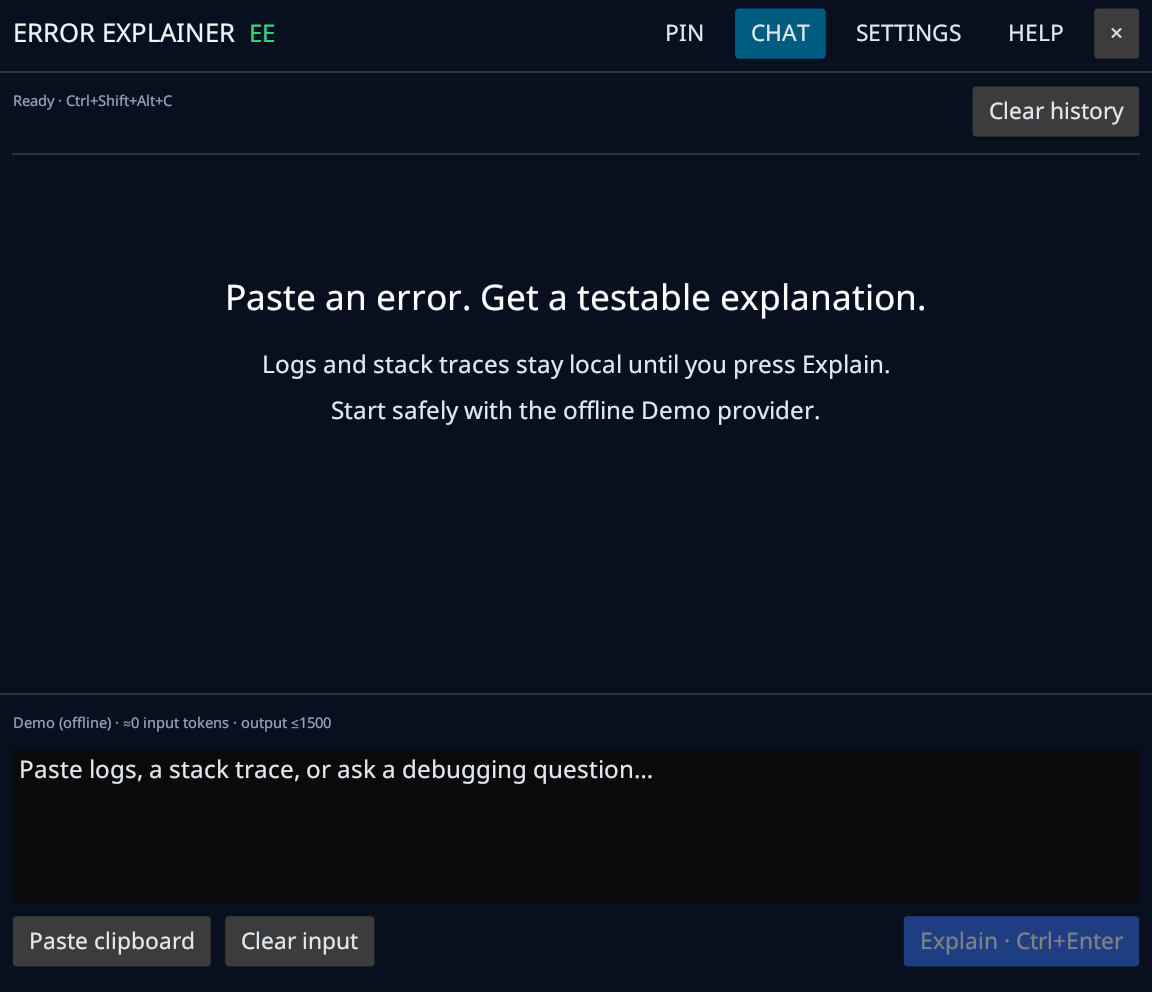
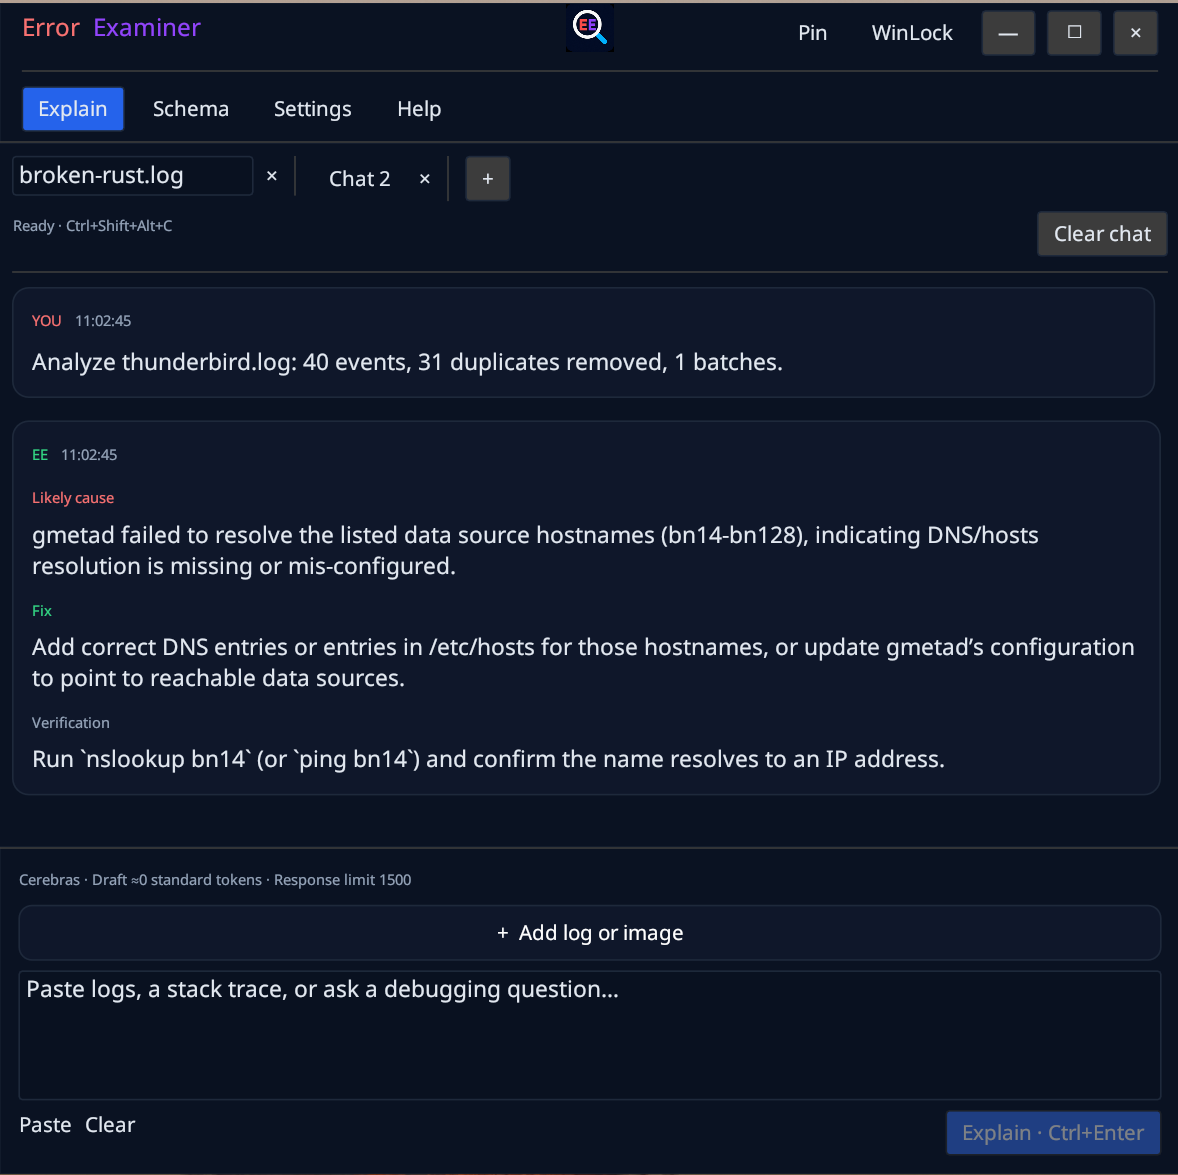
docs: refresh release screenshots

diff --git a/README.md b/README.md
@@ -36,10 +36,6 @@ diagnostic evidence, and sends bounded requests to the AI provider you choose.
 
 ![Settings](screenshots/settings.png)
 
-### Built-in help
-
-![About and Help](screenshots/about-help.png)
-
 ## Features
 
 - Raw/Parsed comparison sends the smaller safe representation.
